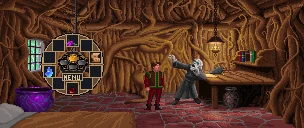
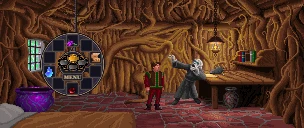
fix(ui): smooth the radial inventory

Changed region(s): [[0.1184, 0.25, 0.3553, 0.7812]]

diff --git a/src/engine/gameplay/radialInventory.ts b/src/engine/gameplay/radialInventory.ts
@@ -3,6 +3,7 @@ import type { Vec2 } from '../core/types';
 import { getInventorySlotPositions, inside } from './inventory';
 
 export const RADIAL_SLOT_SIZE = 13;
+export const RADIAL_RENDER_SCALE = 4;
 const orbit = 24, outer = 32, amuletScale = .4;
 const halfSlot = Math.floor(RADIAL_SLOT_SIZE / 2);
 
@@ -25,57 +26,57 @@ export function radialLayout(height: number, anchor?: Vec2 | null, footprint = {
 }
 
 function disk(ctx: CanvasRenderingContext2D, x: number, y: number, r: number, color: string) {
+  ctx.beginPath();
+  ctx.arc(x, y, r, 0, Math.PI * 2);
   ctx.fillStyle = color;
-  for (let row = -r; row <= r; row++) {
-    const half = Math.floor(Math.sqrt(r * r - row * row));
-    ctx.fillRect(x - half, y + row, half * 2 + 1, 1);
-  }
+  ctx.fill();
 }
 
 function bevel(ctx: CanvasRenderingContext2D, x: number, y: number, w: number, h: number, lit: boolean) {
-  ctx.fillStyle = lit ? '#f6db91' : '#b69260';
-  ctx.fillRect(x, y, w, h);
-  ctx.fillStyle = lit ? '#36433c' : '#161a23';
-  ctx.fillRect(x + 1, y + 1, w - 2, h - 2);
+  ctx.beginPath();
+  ctx.roundRect(x + .35, y + .35, w - .7, h - .7, 1.6);
+  ctx.fillStyle = lit ? '#263d3c' : '#12121e';
+  ctx.fill();
+  ctx.strokeStyle = lit ? '#e9c992' : '#8b795a';
+  ctx.lineWidth = .6;
+  ctx.stroke();
+  ctx.beginPath();
+  ctx.roundRect(x + 1.1, y + 1.1, w - 2.2, h - 2.2, 1);
+  ctx.strokeStyle = lit ? '#71968b' : '#423b50';
+  ctx.lineWidth = .45;
+  ctx.stroke();
 }
 
 let plate: HTMLCanvasElement | undefined;
 function radialPlate() {
   if (plate) return plate;
   plate = document.createElement('canvas');
-  plate.width = plate.height = 2 * outer + 1;
+  plate.width = plate.height = (2 * outer + 1) * RADIAL_RENDER_SCALE;
   const ctx = plate.getContext('2d')!;
-  disk(ctx, outer, outer, outer, '#100c11');
-  disk(ctx, outer, outer, outer - 1, '#c09a62');
-  disk(ctx, outer, outer, outer - 2, '#624735');
+  ctx.scale(RADIAL_RENDER_SCALE, RADIAL_RENDER_SCALE);
+  const center = outer + .5;
+  disk(ctx, center, center, outer + .35, '#100e17');
+  disk(ctx, center, center, outer - .45, '#a28b63');
+  disk(ctx, center, center, outer - 1.15, '#282437');
+  disk(ctx, center, center, outer - 2.3, '#453d54');
+  disk(ctx, center, center, outer - 3, '#2a2538');
+  disk(ctx, center, center, orbit - 1.1, '#807057');
   ctx.globalCompositeOperation = 'destination-out';
-  disk(ctx, outer, outer, orbit - 2, '#fff');
+  disk(ctx, center, center, orbit - 1.7, '#fff');
   ctx.globalCompositeOperation = 'source-over';
-  disk(ctx, outer, outer, 14, '#8b6844');
-  disk(ctx, outer, outer, 13, '#191d27');
+  disk(ctx, center, center, 14, '#100e17');
+  disk(ctx, center, center, 13.4, '#8f7958');
+  disk(ctx, center, center, 12.8, '#342d43');
+  disk(ctx, center, center, 12, '#1b1928');
   return plate;
-}
-
-const menuLetters = {
-  M: [5, 7, 7, 5, 5], E: [7, 4, 6, 4, 7], N: [9, 13, 11, 9, 9], U: [5, 5, 5, 5, 7],
-  М: [5, 7, 7, 5, 5], Е: [7, 4, 6, 4, 7], Н: [5, 5, 7, 5, 5], Ю: [23, 21, 29, 21, 23]
-};
-function drawMenuText(ctx: CanvasRenderingContext2D, menu: string, x: number, y: number) {
-  const letters = [...menu.toUpperCase()].map(letter => menuLetters[letter as keyof typeof menuLetters]);
-  let left = x - 8;
-  for (const rows of letters) {
-    if (!rows) continue;
-    const width = rows[0] > 15 ? 5 : rows[0] > 7 ? 4 : 3;
-    rows.forEach((bits, row) => {
-      for (let col = 0; col < width; col++) if (bits & (1 << (width - col - 1))) ctx.fillRect(left + col, y + row, 1, 1);
-    });
-    left += width + 1;
-  }
 }
 
 export function drawRadialInventory(ctx: CanvasRenderingContext2D, layout: ReturnType<typeof radialLayout>,
   pointer: Vec2 | null, menu: string, sealed: boolean, age: number, drawItem: (index: number, x: number, y: number) => void) {
-  ctx.drawImage(radialPlate(), layout.x - outer, layout.y - outer);
+  const diameter = 2 * outer + 1;
+  ctx.imageSmoothingEnabled = true;
+  ctx.drawImage(radialPlate(), layout.x - outer, layout.y - outer, diameter, diameter);
+  ctx.imageSmoothingEnabled = false;
   layout.slots.forEach((slot, index) => {
     const progress = Math.max(0, Math.min(1, (age - index * 17) / 75));
     if (progress <= 0) return;
@@ -91,10 +92,18 @@ export function drawRadialInventory(ctx: CanvasRenderingContext2D, layout: Retur
   const lit = !!pointer && inside(pointer, layout.options);
   bevel(ctx, x, y, w, h, lit);
   ctx.fillStyle = lit ? '#fff0bf' : '#ddc18a';
-  drawMenuText(ctx, menu, layout.x, y + 2);
+  ctx.font = 'bold 5.1px Georgia, serif';
+  ctx.textAlign = 'center';
+  ctx.textBaseline = 'middle';
+  ctx.fillText(menu.toUpperCase(), x + w / 2, y + h / 2 + .15, w - 2);
   if (sealed) {
-    ctx.fillStyle = '#d5ac68';
-    ctx.fillRect(layout.x - 2, layout.y - 2, 5, 1);
-    ctx.fillRect(layout.x, layout.y - 4, 1, 5);
+    ctx.save();
+    ctx.translate(layout.x + .5, layout.y - .5);
+    ctx.rotate(Math.PI / 4);
+    ctx.fillStyle = '#a28b63';
+    ctx.fillRect(-2, -2, 4, 4);
+    ctx.fillStyle = '#285450';
+    ctx.fillRect(-1.35, -1.35, 2.7, 2.7);
+    ctx.restore();
   }
 }

diff --git a/src/engine/gameplay/game.ts b/src/engine/gameplay/game.ts
@@ -15,7 +15,7 @@ import {
   inside,
   initInventory
 } from "./inventory";
-import { drawRadialInventory, RADIAL_SLOT_SIZE, radialLayout } from "./radialInventory";
+import { drawRadialInventory, RADIAL_RENDER_SCALE, RADIAL_SLOT_SIZE, radialLayout } from "./radialInventory";
 import { buildMaskCanvas, buildForegroundFrame, isWalkable, resolveActorLayer } from "../scene/masks";
 import { findWalkPath, findClickPath } from "./pathfinding";
 import { facingDirection, getIdleFrame, getSequence, stepFacing } from "./movement";
@@ -226,7 +226,7 @@ export async function startRoom(canvas: HTMLCanvasElement, config: GameConfig) {
       radialOpenedAt = clockMs;
       if (radialCanvas) {
         const size = radial.radius * 2 + 1;
-        radialCanvas.width = radialCanvas.height = size;
+        radialCanvas.width = radialCanvas.height = size * RADIAL_RENDER_SCALE;
         radialCanvas.style.width = radialCanvas.style.height = `${size * scale}px`;
         radialCanvas.style.left = `${radial.x * 100 / LOGICAL_WIDTH}%`;
         radialCanvas.style.top = `${radial.y * 100 / canvas.height}%`;
@@ -461,6 +461,7 @@ export async function startRoom(canvas: HTMLCanvasElement, config: GameConfig) {
           uiContext.imageSmoothingEnabled = false;
           if (radialCanvas) {
             uiContext.clearRect(0, 0, radialCanvas.width, radialCanvas.height);
+            uiContext.scale(RADIAL_RENDER_SCALE, RADIAL_RENDER_SCALE);
             uiContext.translate(radial.radius - radial.x, radial.radius - radial.y);
           }
           const age = reducedMotion?.matches ? Infinity : clockMs - radialOpenedAt;

diff --git a/src/styles.css b/src/styles.css
@@ -90,7 +90,7 @@ body {
   /* A finger aims inside the scene; two fingers can still zoom the page. */
   touch-action: pinch-zoom;
 }
-.stage .radial-surface { position: absolute; transform: translate(-50%, -50%); pointer-events: none; z-index: 3; }
+.stage .radial-surface { position: absolute; transform: translate(-50%, -50%); image-rendering: auto; pointer-events: none; z-index: 3; }
 .stage .radial-surface[hidden] { display: none; }
 
 .book-continue { padding: 5px 14px; min-height: 32px; font: 16px/1.2 Georgia,serif; color: #d9bd82; border: 0; background: linear-gradient(90deg,transparent,#201007eb 20%,#201007eb 80%,transparent); text-shadow: 0 1px 2px #000; }
